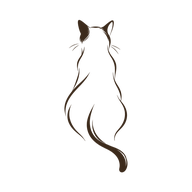
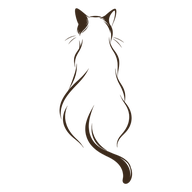
Katze im App-Symbol vergrößern

Changed region(s): [[0.2812, 0.0312, 0.6875, 0.9688]]

diff --git a/public/app/sw.js b/public/app/sw.js
@@ -1,6 +1,6 @@
 // Service Worker der App: Push-Mitteilungen anzeigen, beim Antippen die passende Seite öffnen,
 // ohne Netz eine Hinweisseite statt eines Browser-Fehlers. Daten werden nicht zwischengespeichert (immer aktuell vom Server).
-const CACHE = 'sanda-mail-2';
+const CACHE = 'sanda-mail-3';
 const OFFLINE = '/app/offline.html';
 
 self.addEventListener('install', (e) => {

diff --git a/scripts/symbole.py b/scripts/symbole.py
@@ -37,9 +37,9 @@ def speichern(bild, name):
     bild.save(f'{ziel}/{name}', optimize=True)
 
 
-speichern(symbol(192, 0.80), 'icon-192.png')
-speichern(symbol(512, 0.80), 'icon-512.png')
-speichern(symbol(512, 0.68), 'icon-maskable-512.png')    # innerhalb der Sicherheitszone (Kreis, 80 %)
-speichern(symbol(180, 0.76), 'apple-touch-icon.png')
-speichern(symbol(32, 0.92, dicker=5), 'favicon-32.png')   # Linien verstärkt, sonst bei 32 px unsichtbar
-speichern(symbol(96, 0.88, None, WEISS, dicker=5), 'badge-96.png')  # Mitteilungs-Symbol: nur Form, weiß auf transparent
+speichern(symbol(192, 0.92), 'icon-192.png')
+speichern(symbol(512, 0.92), 'icon-512.png')
+speichern(symbol(512, 0.74), 'icon-maskable-512.png')    # innerhalb der Sicherheitszone (Kreis, 80 %)
+speichern(symbol(180, 0.90), 'apple-touch-icon.png')
+speichern(symbol(32, 0.96, dicker=5), 'favicon-32.png')   # Linien verstärkt, sonst bei 32 px unsichtbar
+speichern(symbol(96, 0.94, None, WEISS, dicker=5), 'badge-96.png')  # Mitteilungs-Symbol: nur Form, weiß auf transparent
